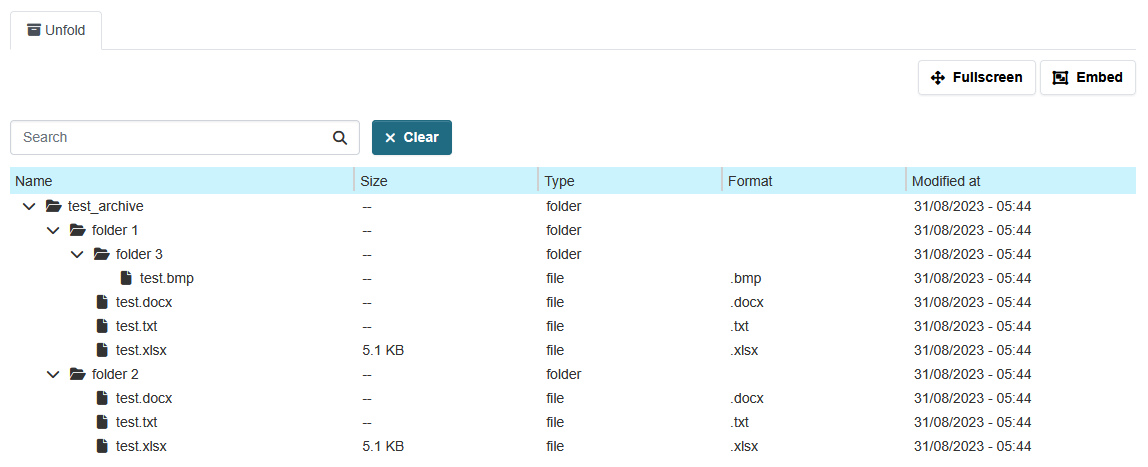
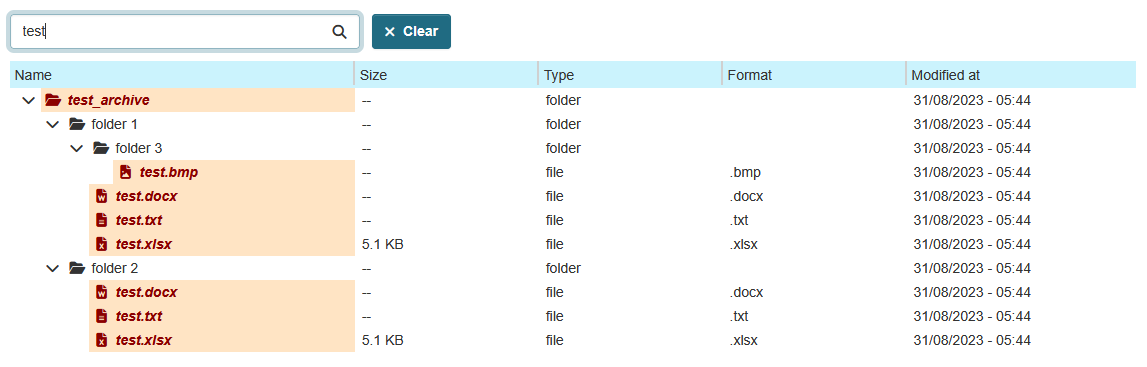
docs: update readme

diff --git a/README.md b/README.md
@@ -6,6 +6,16 @@ Enhance your CKAN experience with our extension that enables seamless previews o
 
 ![Plugin presentation](doc/image.png)
 
+Features:
+- Represents an archive as a file tree
+- Supports the following archive formats: ZIP, RAR, 7Z, TAR, TAR.XZ, TAR.GZ, TAR.BZ2, DEB, RPM, CBR, JAR, A, AR, LIB
+- Password-protected archives support for RAR format
+- Caching the file tree for faster access
+- File and folder search
+- Sorting by name, size, type, format and date
+- Support local and remote files
+- Support for large archives
+
 ## Supported Versions
 
 CKAN >= 2.10
